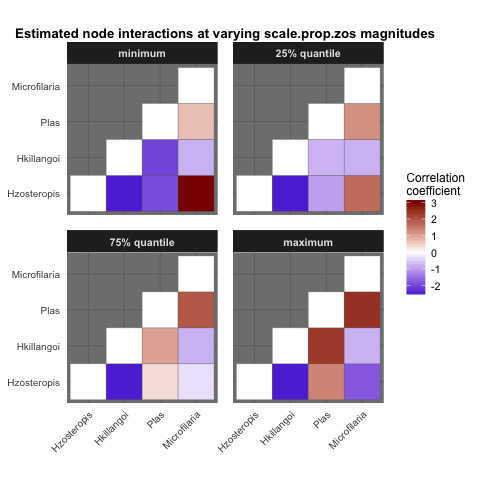
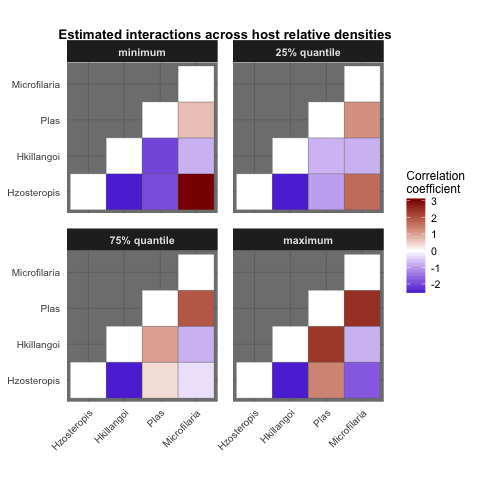
Updated readme figures

diff --git a/README.md b/README.md
@@ -43,7 +43,8 @@ plotMRF_hm(MRF_mod = MRF_mod)
 Visualise how species interactions change across covariate magnitudes
 
 ``` r
-plotMRF_hm_cont(MRF_mod = MRF_mod, covariate = 'scale.prop.zos', data = Bird.parasites)
+plotMRF_hm_cont(MRF_mod = MRF_mod, covariate = 'scale.prop.zos', data = Bird.parasites, 
+                main = 'Estimated interactions across host relative densities')
 ```
 
 <img src="README-unnamed-chunk-6-1.png" style="display: block; margin: auto;" />
